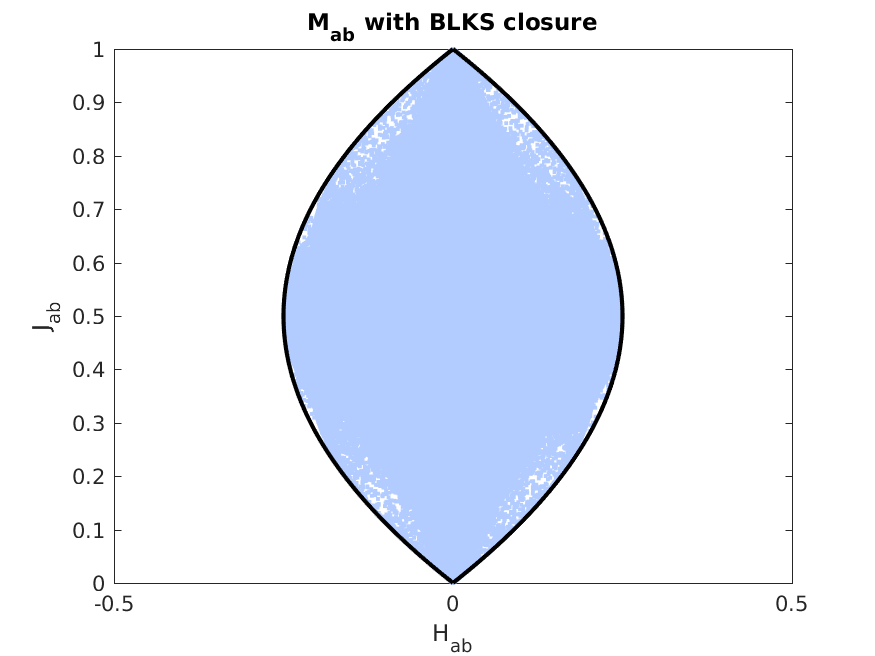
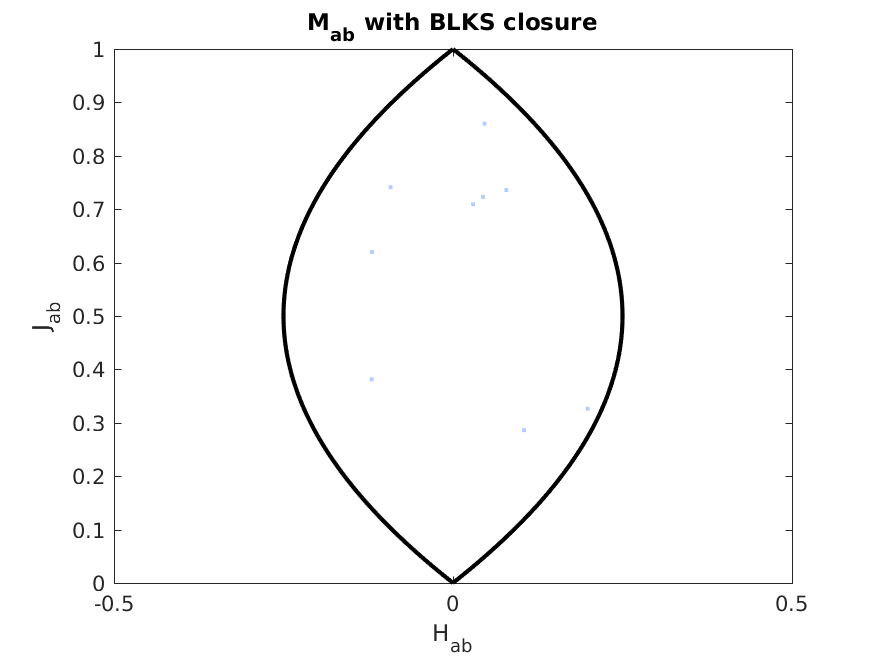
Added Eddington factor plots for different closures.

Changed region(s): [[0.3086, 0.061, 0.7097, 0.8841]]

diff --git a/Documents/M1/realizableFermionicM1/figures/plotDifferentClosure.m b/Documents/M1/realizableFermionicM1/figures/plotDifferentClosure.m
@@ -1,0 +1,46 @@
+clear all
+close all
+
+theta_Kershaw = @(x) x.*x;
+theta_MECB = @(x) x.*x.*(3-x+3.*x.*x)./5;
+theta_MEBL = @(x) (9.*x.*x-5+sqrt(33.*x.^4 - 42.*x.*x+25))/8;
+
+nPts = 1024;
+J = 0.6;
+h = linspace(0.0,1.0 - J,nPts);
+
+Kershaw = zeros(nPts,1);
+MECB = zeros(nPts,1);
+MEBL = zeros(nPts,1);
+Minerbo = zeros(nPts,1);
+bryup = zeros(nPts,1);
+brydown = zeros(nPts,1);
+
+Kershaw = Closure(J,h,theta_Kershaw);
+MECB = Closure(J,h,theta_MECB);
+MEBL = Closure(J,h,theta_MEBL);
+Minerbo = 1/3 + 2.*h.*h.*...
+                (3-h+3.*h.*h)./15;
+bryup = min(ones(1,nPts),1/(3*J)-J.*h.*h./(1-J) );
+brydown = max( (1-2/(3*J)).*ones(1,nPts),h.*h ); 
+fig = plot(h,Kershaw,'-','linewidth', 2); hold on
+plot(h,MECB,'-','linewidth', 2); 
+plot(h,MEBL,'--','linewidth', 2); 
+plot(h,Minerbo,'-.','linewidth', 2);
+plot(h,bryup,'-k','linewidth', 2);
+plot(h,brydown,'-k','linewidth', 2);
+lgnd = legend({'Kershaw','MECB','MEBL','Minerbo'},...
+    'Location','best');
+set(lgnd,'FontSize',10);
+xlim([0,1-J]);
+xlabel('Flux factor h','FontSize',12);
+ylabel('Eddington factor \chi','FontSize',12);
+title(['J = ',num2str(J)],'FontSize',12);
+saveas(fig,['Closures', num2str(J),'.png']);
+
+function [ value ] = Closure( J, h, theta_fun )
+
+temp = 2.*(1-J).*(1-2.*J)/3 .* theta_fun(h/(1-J));
+value = 1/3 + temp;
+
+end

diff --git a/Documents/M1/realizableFermionicM1/figures/MabWithDiffClosure.m b/Documents/M1/realizableFermionicM1/figures/MabWithDiffClosure.m
@@ -1,7 +1,7 @@
 % close all
 clear all
 
-nPts = 1000000;
+nPts = 10;
 
 
 PolynomialCB = @(x) x^2 * ( 3.0 - abs(x) + 3.0 * x^2 ) / 5.0;
